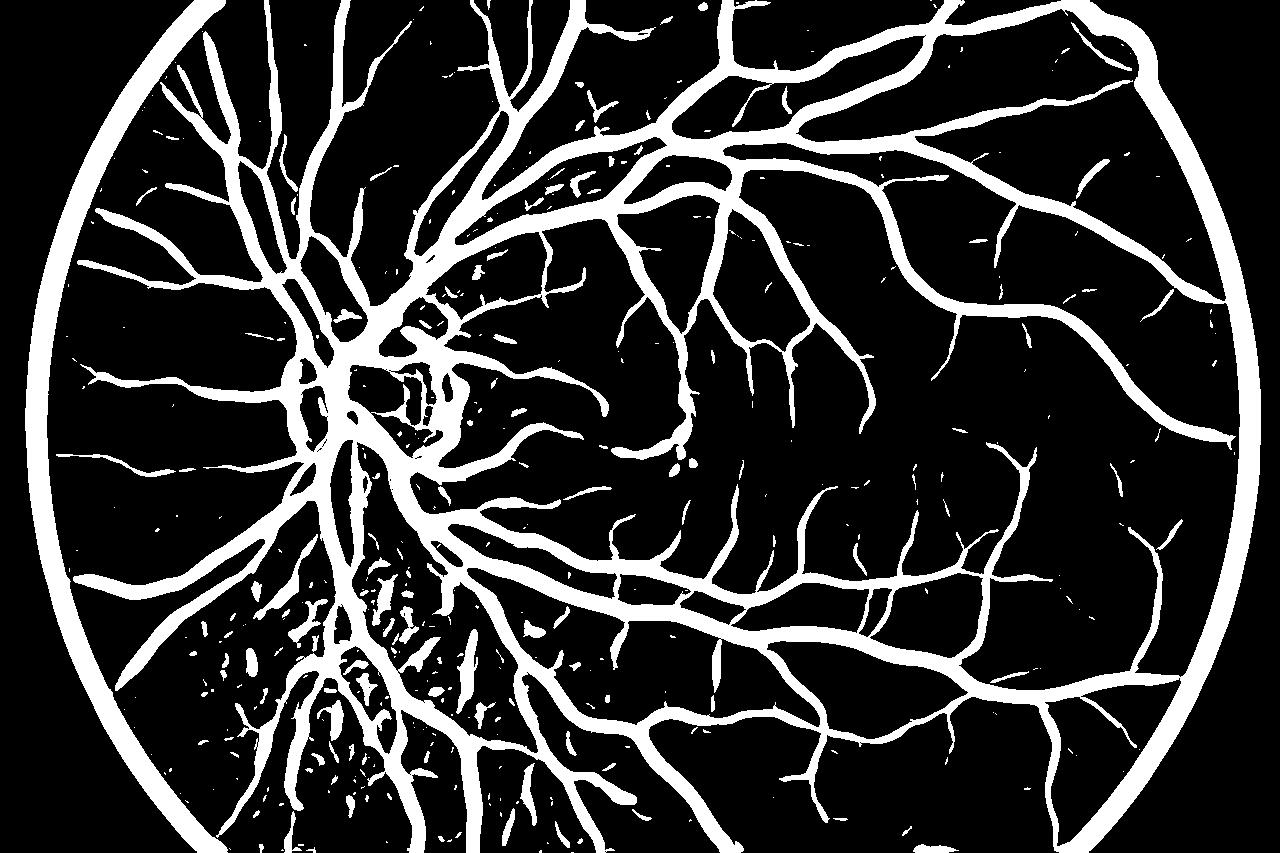
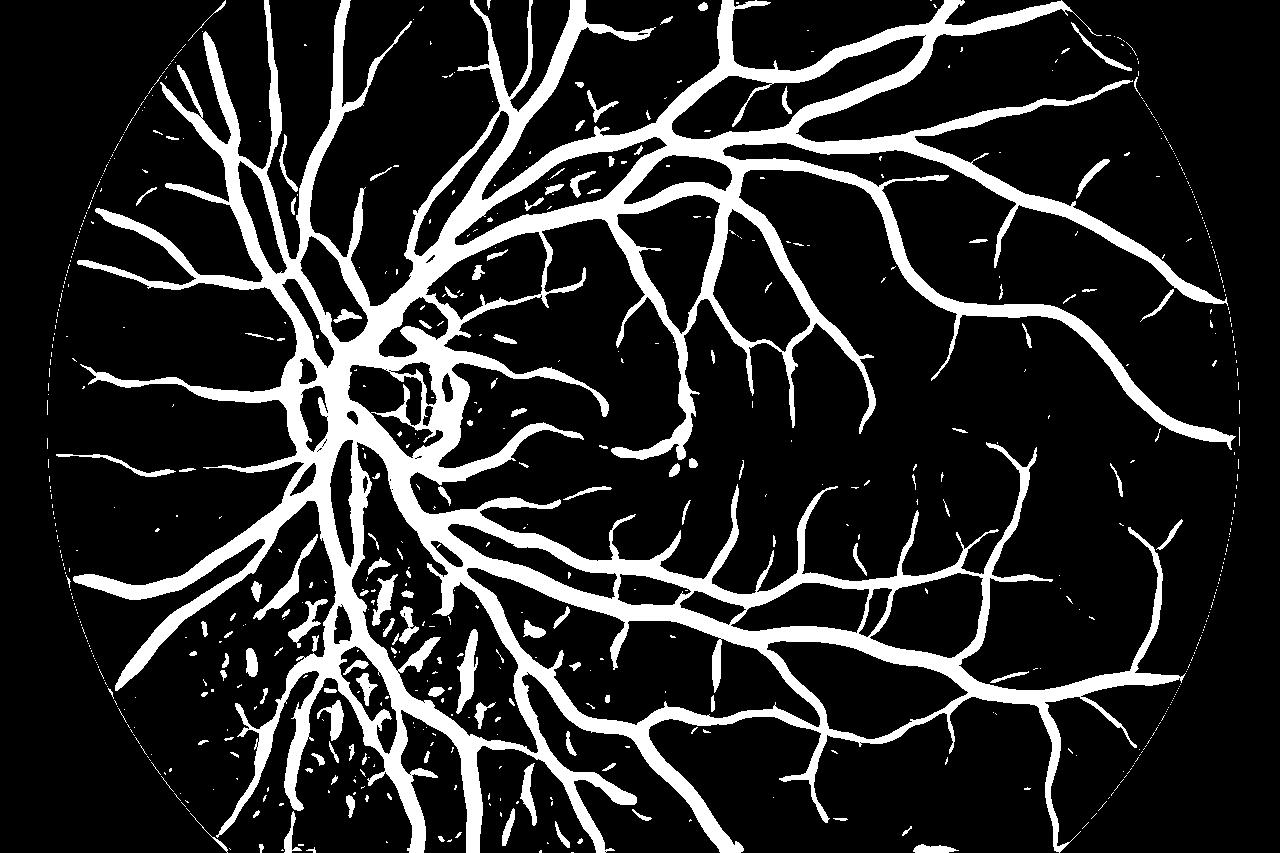
remove redundant frame

Changed region(s): [[0.0, 0.0, 0.1875, 1.0], [0.8125, 0.0, 1.0, 1.0]]

diff --git a/main.py b/main.py
@@ -2,6 +2,7 @@ import cv2
 from skimage import io, color
 from skimage.filters import frangi
 import numpy as np
+import matplotlib.pyplot as plt
 from PIL import Image
 
 
@@ -17,10 +18,12 @@ def resizeInputImage(dataDir, fileName, fovMaskDir, fovMaskFile):
     fovImage.save(fovMaskDir + fovMaskFile[:-4] + "_small" + fovMaskFile[-4:])
 
 
-def frangiFilter(image):
+def frangiFilter(image, fovImage):
     image = frangi(image)
     for y in range(image.shape[0]):
         for x in range(image.shape[1]):
+            if fovImage[y][x] == 0:
+                image[y][x] = 0
             if image[y][x] > 0.0000002:
                 image[y][x] = 255
             else:
@@ -45,8 +48,10 @@ def main():
 
     image = io.imread(dataDir + fileName)
     image = image[:, :, 1]
+    fovImage = plt.imread(fovMaskDir + fovMaskFile)
+    fovImage = fovImage[:, :, 1]
 
-    frangiImage = frangiFilter(image)
+    frangiImage = frangiFilter(image, fovImage)
 
     io.imshow(frangiImage)
     io.show()
